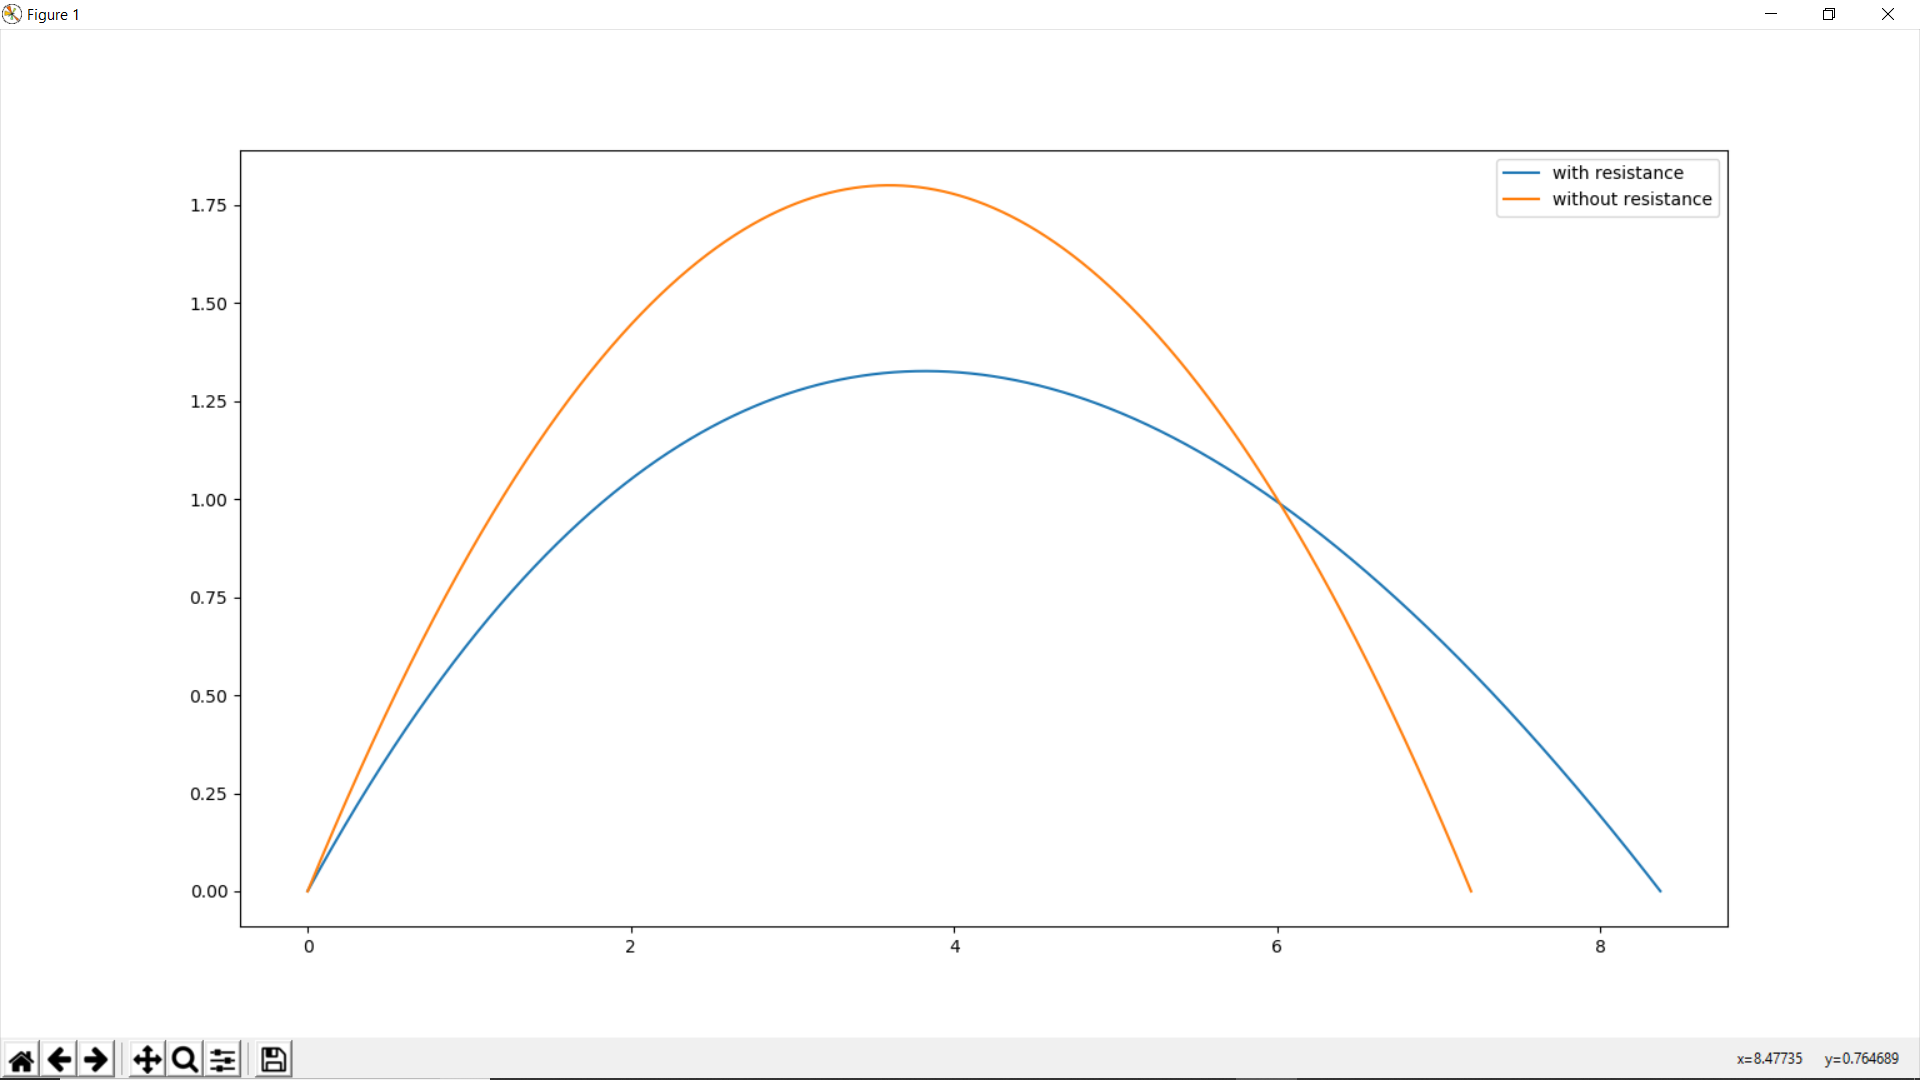
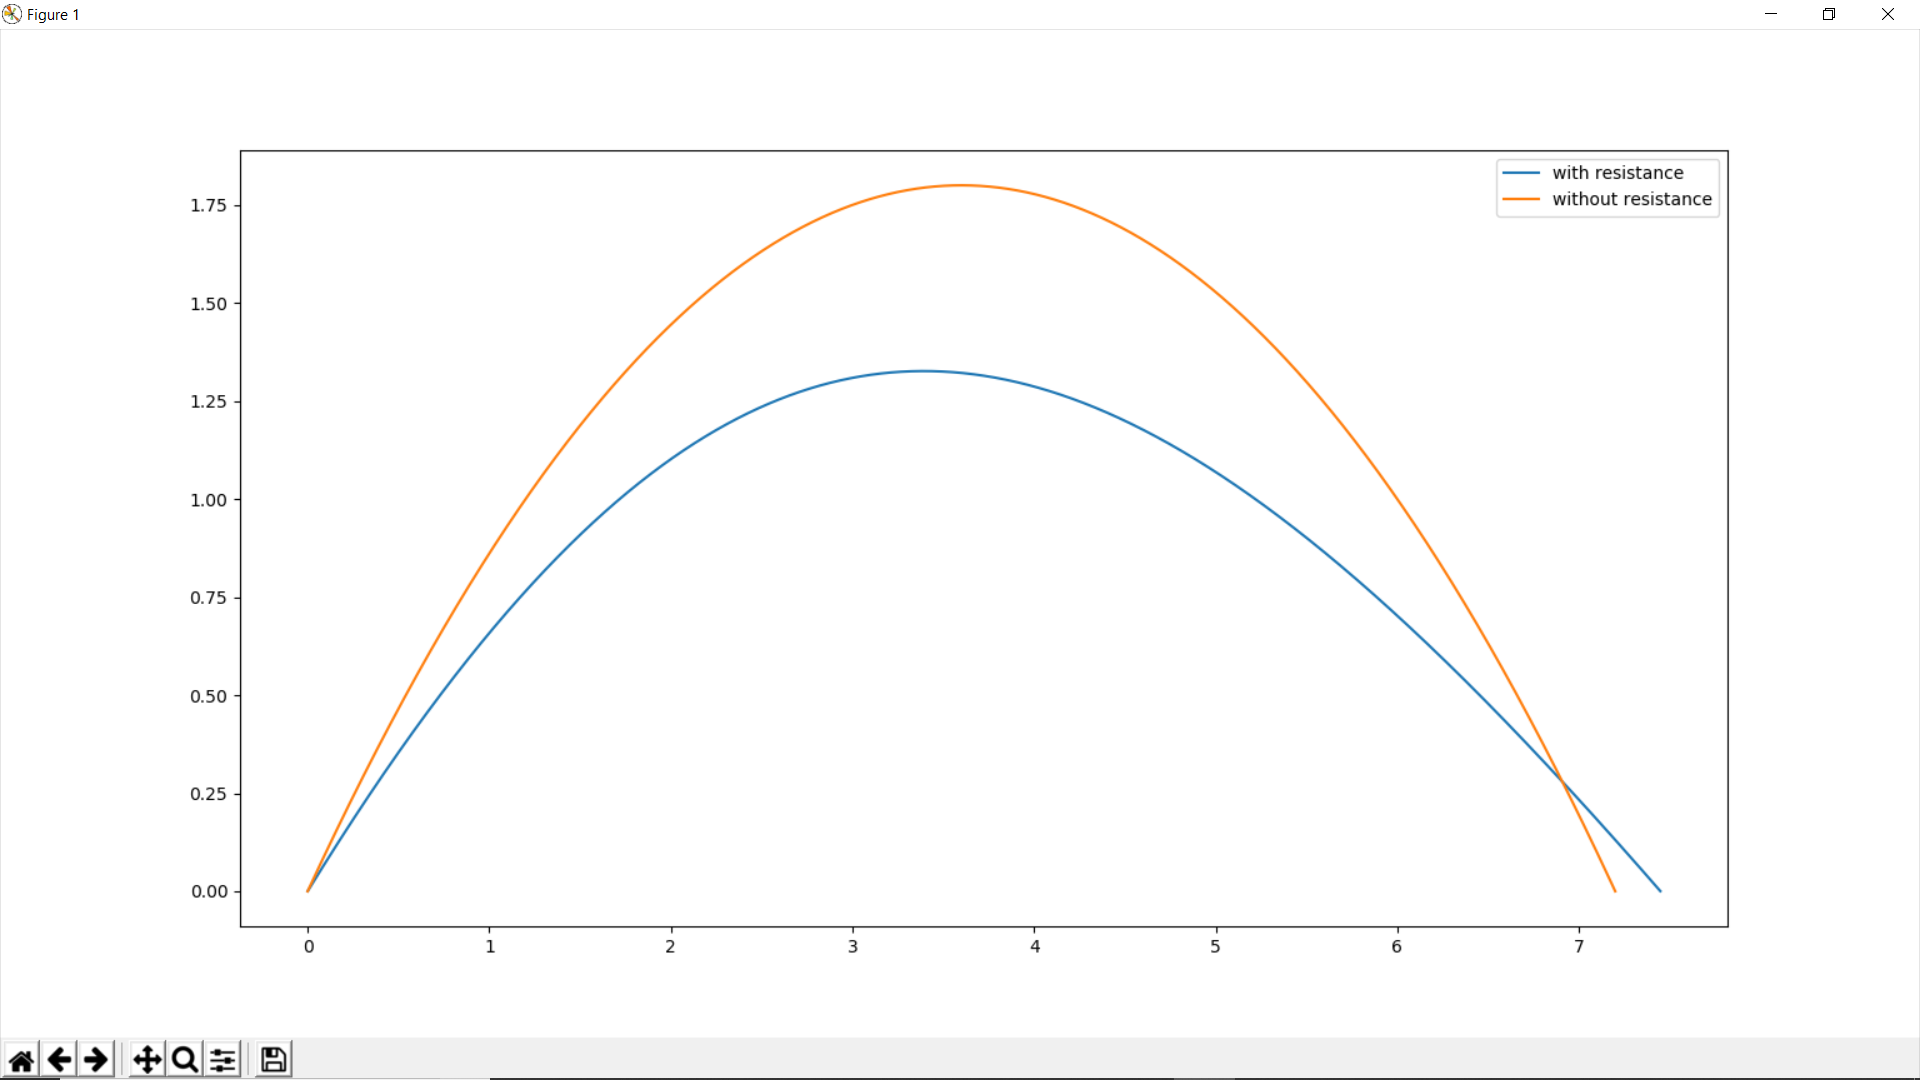
error corrected in question 1

diff --git a/question1/with/part2.py b/question1/with/part2.py
@@ -6,17 +6,25 @@ theta=array.arange(0,90,1)
 def rangef(theta):
 	vx=u*math.cos(math.radians(theta))
 	vy=u*math.sin(math.radians(theta))
+
 	time=array.arange(0,10,0.0001)
 	vyd=vy
 	h=0
 	hd=h
+	vxd=vx
+	d=0
+	dd=d
 	for t in time:
 		h=hd+vy*0.0001
 		vy=vyd+(-9.8-vy)*0.0001
 		vyd=vy
 		hd=h
+		d=dd+vx*0.0001
+		vx=vxd+(-vy)*0.0001
+		vxd=vx
+		dd=d
 		if(h<0):
-			return vx*t
+			return d
 range=[]
 for tet in theta:
 	range.append(rangef(tet))

diff --git a/question1/with/question1.py b/question1/with/question1.py
@@ -11,6 +11,10 @@ x=[]
 vyd=vy
 h=0
 hd=h
+#
+vxd=vx
+d=0
+dd=d
 
 time1=array.arange(0,10,0.0001)
 #let u=10m/s
@@ -33,10 +37,17 @@ for t in time:
 	vy=vyd+(-9.8-vy)*0.0001
 	vyd=vy
 	hd=h
+
+#
+	d=dd+vx*0.0001
+	vx=vxd+(-vy)*0.0001
+	vxd=vx
+	dd=d
+
 	if(h<0):
 		break
 	he.append(h)
-	x.append(vx*t)
+	x.append(d)
 graph.plot(x,he,label="with resistance")
 graph.plot(x1,y1,label="without resistance")
 graph.legend()
